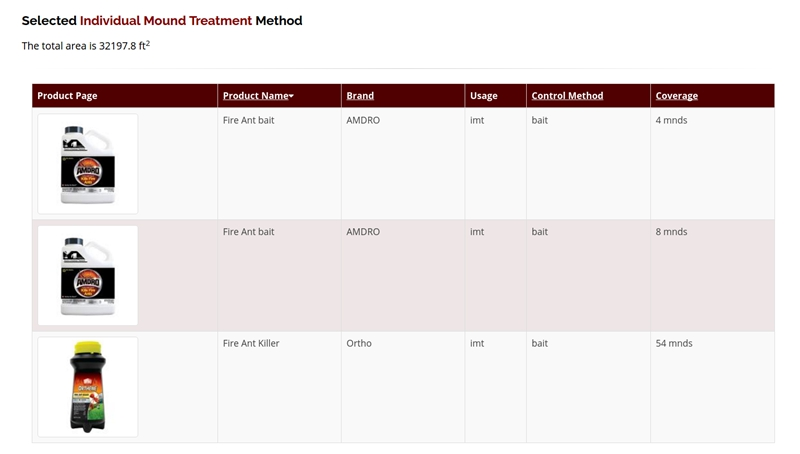
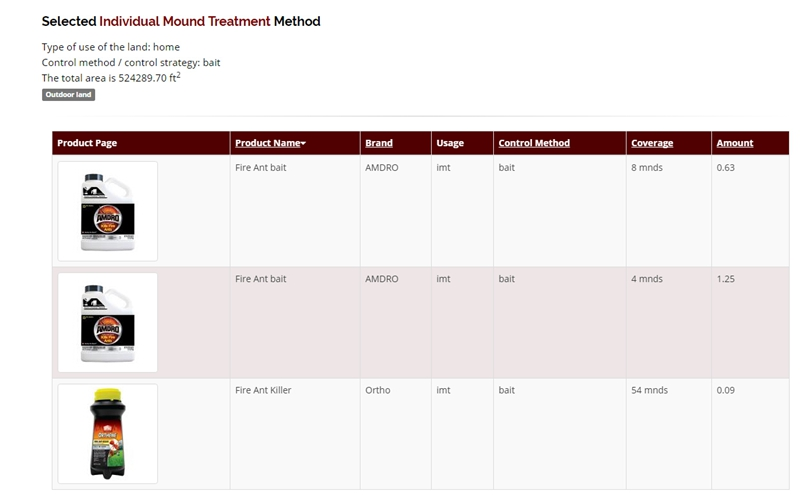
changed readme.md

diff --git a/README.md b/README.md
@@ -10,27 +10,28 @@ This readme.md is about Ant Spatial Information and Decision Support (FASIDS). T
 
 At the time of writing (04/14/2016), This project adopts [MEAN stack](http://blog.mongodb.org/post/49262866911/the-mean-stack-mongodb-expressjs-angularjs-and), and can be hosted in Linux server or in Windows server having IIS with [IISNODE](https://github.com/tjanczuk/iisnode).
 
-The project can be visited at http://fasids.tamu.edu/node/fasids.
+The project can be visited at http://fasids.tamu.edu OR http://fasids.tamu.edu/node/fasids.
 
 The edge version of project is currently hosted at [OpenShift Redhat cloud](http://fasids-u7yhjm.rhcloud.com/) for testing purpose. 
 
 ## Features and Usage
 
 Mark to be treated area on map, put land usuage, memo, and fire ant mound denstiy to it, and save it to your profile. 
-![save treatment area](http://fasids-u7yhjm.rhcloud.com/img/screenshots/draw_area.jpg)
+![save treatment area][polygon]
 
 ##### Start Drawing
 Click the uppoermost button on left tool panel. Click on map to place a vertex. To finish drawing, just click on the first vertex of polyline. Then one polygon will apear on map.
-To place one hold in one **closed** polygon, just click the "DRAW HOLE" button in left panel, and left click inside the polygon in which you would like to place one hole. You can place multiple holes inside one polygon. 
+To remove in one **closed** polygon, just click the "Remove Area" button in left panel, and left click inside the polygon. You can place remove multiple parts from one polygon. 
 
-##### Edit Shape and Remove Holes
-Right click on one vertex, one small menu will pop up, select function you want. 
+##### Edit Shape and restore removed area
+Click "Edit Shape" in left panel to enter edit mode. Then right click on one vertex, one small menu will pop up, select function you want from "remove vertex" or "remove subroute". 
 
-##### Set Properties
-Click the "SET PROPERTIES" button on left tool panel, then click on the polygon you want to set property. One modal will pop out. Enter properties and save changes.
+##### Set Treatment
+Click the "Set Treatment" button in tool panel at left side. One modal will pop out. Enter properties and save changes to server.
 
-##### Save polygon and see result.
-Click "SAVE & SEE RESULT" button. Similarly, you need to again click on the polygon you want to save. Browser will take you to result page for the saved polygon. Some fire ant products will be listed below the map, showing the amount of usage.
+##### Product List.
+After you have set treatment, and saved treatment to server. Product List button will appear in tool panel at left side. Click it, then you will see product suitable for your treatment.
+![product list][productList]
 
 ##### Retrieve the polygon and edit again
 Log into your account, enter user dashboard. Your polygon will be listed there.
@@ -42,13 +43,18 @@ Describe and show how to run the tests with code examples.
 
 ## Contributors
 
-Bowei Liu, Computer Engineering Major, Master of Engineering candidate, Texas A&M Unviersity. **Actively seeking one full-time position in software development beginning at August 2016**.
+[Bowei Liu][1], Computer Engineering Major, Master of Engineering candidate, Texas A&M Unviersity. **Actively seeking one full-time position in software development beginning at August 2016**.
+
+Sylvia Wang, Management Information System, Master of Science candidate, Texas A&M Universtity.
 
 Maria D. Tchakerian, Associate Research Scientist, Dept. of Entomology, Texas A&M University 
 
-## License
-
-
+## License  
 The MIT License
 
 Copyright (c) 2015-2016 Knowledge Engineering Lab, Dept. of Entomology, Texas A&M University
+
+
+[1]: https://www.linkedin.com/in/boweiliujs
+[polygon]: /public/img/procedures/07aftersettingtreatment.jpg
+[productList]: /public/img/procedures/08productresult2.jpg
